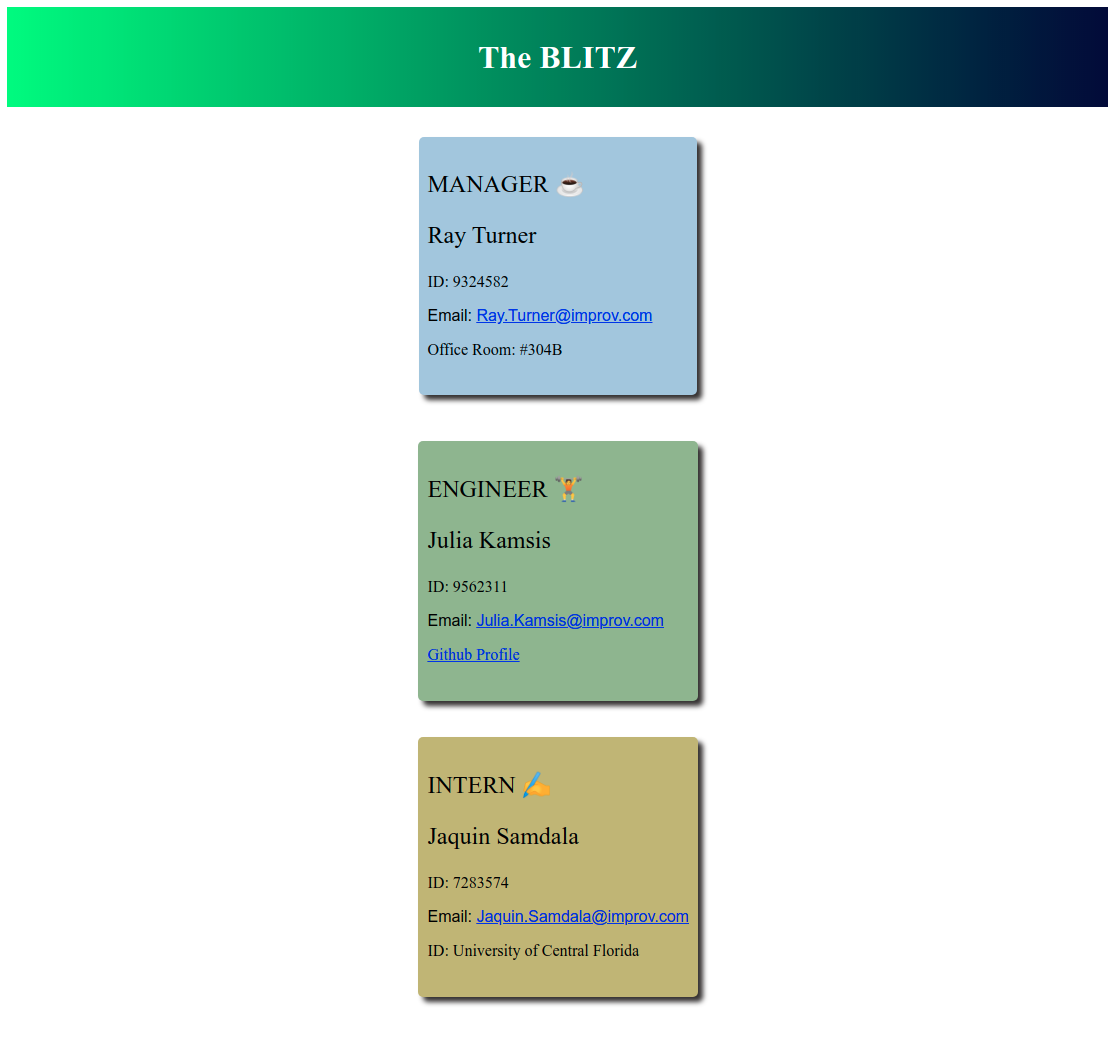
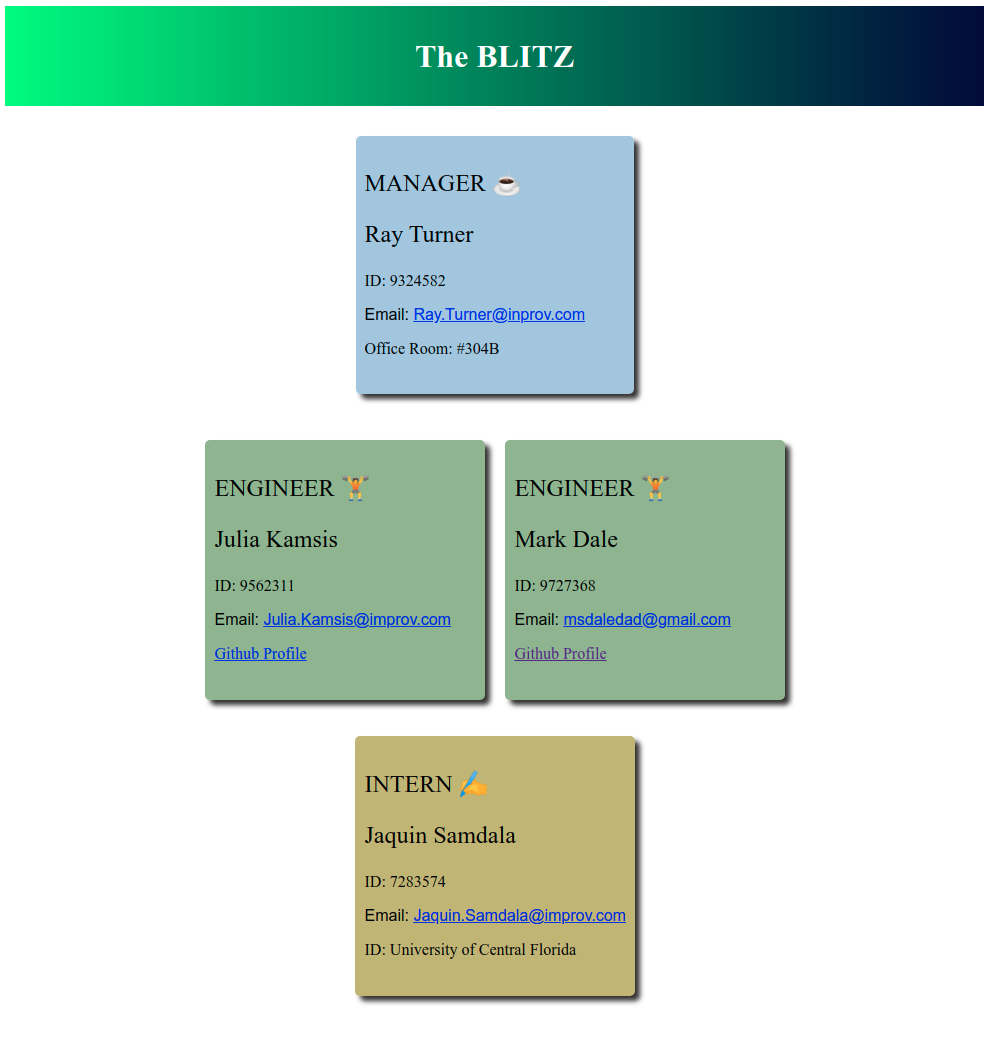
fill readme (iter9)

Changed region(s): [[0.1822, 0.1219, 0.8198, 0.9752], [0.4251, 0.0305, 0.5769, 0.0914], [0.9717, 0.0, 1.0, 0.0914]]

diff --git a/dist/index.html b/dist/index.html
@@ -22,7 +22,7 @@
         <p id="role">Manager &#9749;</p>
         <p id="name">Ray Turner</p>
         <p>ID: 9324582</p>
-        <pre id="email">Email: <a href = "mailto: Ray.Turner@improv.com">Ray.Turner@improv.com</a></pre>
+        <pre id="email">Email: <a href = "mailto: Ray.Turner@inprov.com">Ray.Turner@inprov.com</a></pre>
         <p>Office Room: #304B</p>
       </div>
 
@@ -35,6 +35,14 @@
         <p>ID: 9562311</p>
         <pre id="email">Email: <a href = "mailto: Julia.Kamsis@improv.com">Julia.Kamsis@improv.com</a></pre>
         <a href="https://github.com/jkamsis">Github Profile</a>
+      </li>
+
+      <li>
+        <p id="role">Engineer &#127947;</p>
+        <p id="name">Mark Dale</p>
+        <p>ID: 9727368</p>
+        <pre id="email">Email: <a href = "mailto: msdaledad@gmail.com">msdaledad@gmail.com</a></pre>
+        <a href="https://github.com/msdale">Github Profile</a>
       </li>
 
     </ul>

diff --git a/README.md b/README.md
@@ -32,7 +32,7 @@ To execute the application, from the command line, attach to the root directory 
 ? What is the Engineer's name? (Required) Julia Kamsis  
 ? What is the Engineers's employee ID? (Required) 9562311  
 ? What is the Engineers's email? (Required) Julia.Kamsis@improv.com  
-? What is the Engineers's Github username? (Required) jkamsis  
+? What is the Engineers's Github username? (Required) msdale  
 ? Would you like to add more members to the Team? Yes  
 ? Choose an engineer or an intern: intern  
 ? What is the Intern's name? (Required) Jaquin Samdala  
@@ -48,8 +48,3 @@ NOTE: the 2 messages at the end of the prompts indicate the HTML and CSS files a
 ![](./assets/images/team-profile-sample.png)
 
 
-
-
-
-
-You'll have to work through required vs default answers. The actual answers are not as important as all the sections you decide to include.  Keep the answers short and to the point; you'll probably edit them later. NOTE; There will be a question about the availability of a 'Usage Video' referencing an mp4 file named './assets/videos/usage-link.url'.  If you want to supply a usage video you will reply (y) to the prompt, but you must previously create an mp4 formatted video and install it in github.  Here's how; create the mp4 file; drag and drop it into any git repository markdown file while viewing the markdown file in the github browser. The dropped mp4 file will be transformed to a URL pointing to the mp4 file saved in a unique user-images.githubusercontent.com location. Place that URL as the only line in the './assets/videos/usage-link.url' file.
